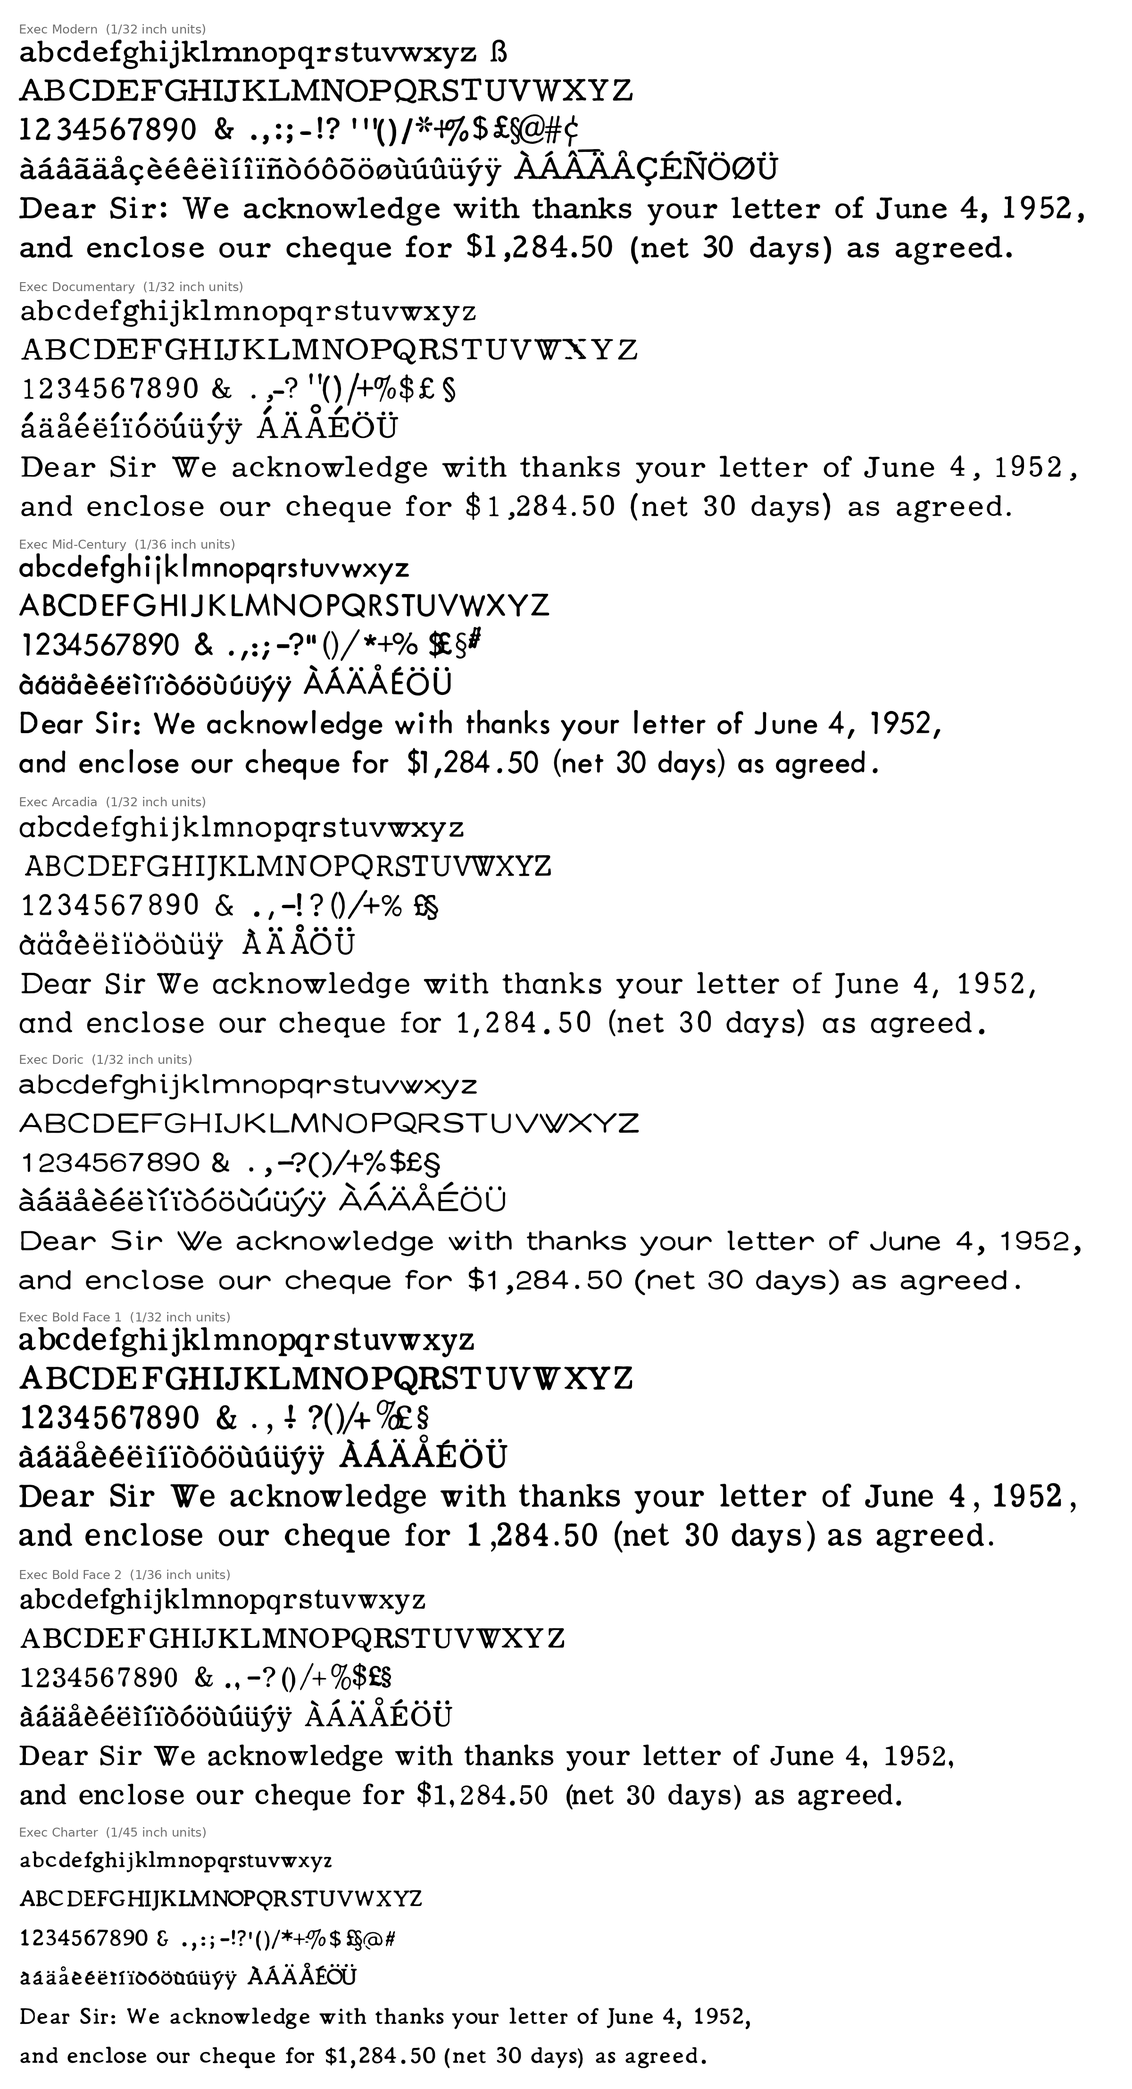
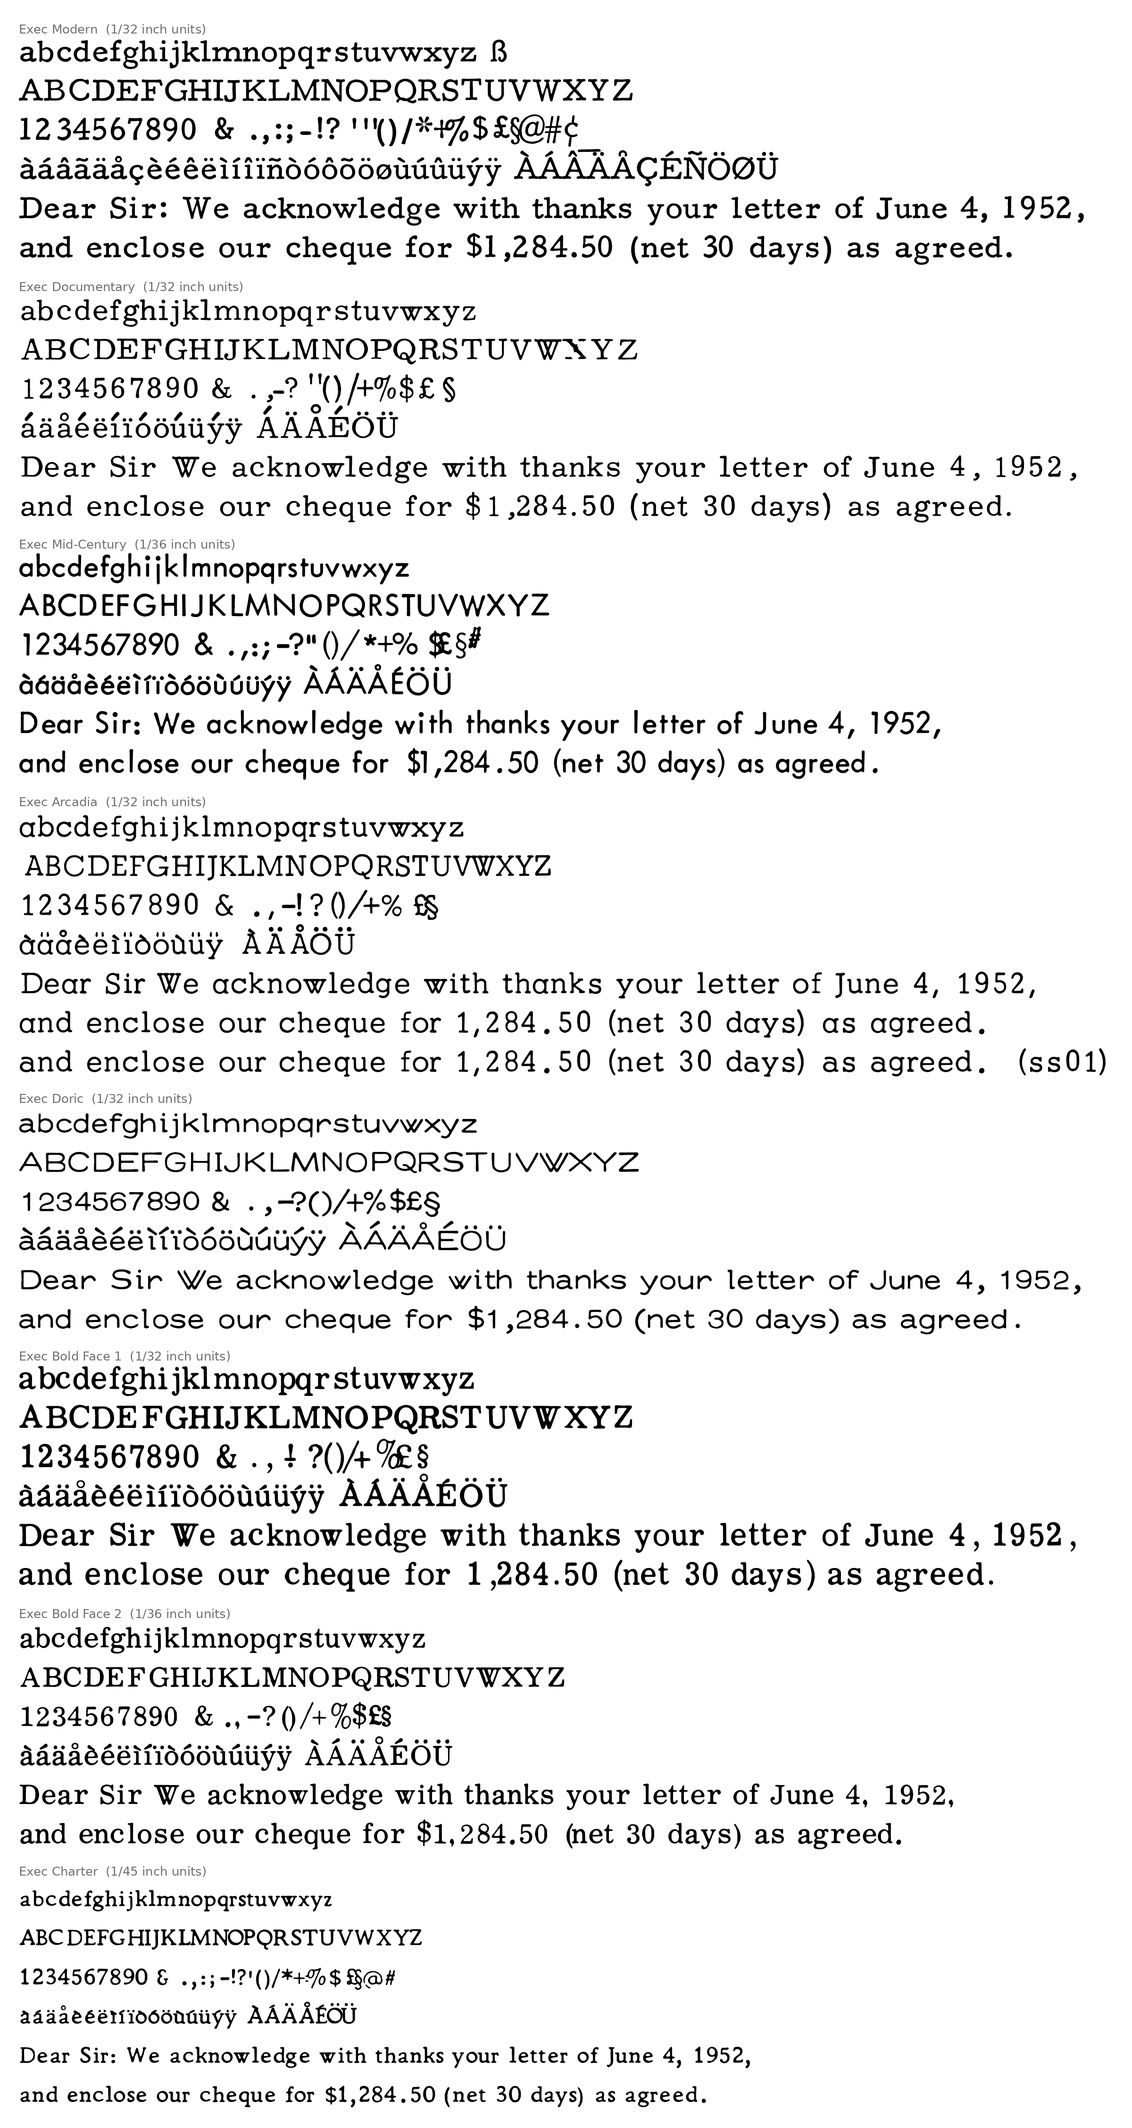
IBM Executive: Arcadia's two-storey a, from IBM's type designs sheet, as ss01
Exec Arcadia 1.001. The a is averaged over the sheet's 13 occurrences, scaled
so the sheet's letters are as tall as the brochure's, and thickened by the
difference of the two sources' stems so it has the brochure's weight. The
accented a's get it too; salt offers it as well.

Claude-Session: https://claude.ai/code/session_01CQ6vQTb8Z7L7dhdmG8pUbp

Changed region(s): [[0.0, 0.0, 0.9375, 0.9661]]

diff --git a/ibm-executive/tools/build.py b/ibm-executive/tools/build.py
@@ -9,7 +9,7 @@ Scale: 200 font units to the 1/32-inch unit, so 6400 units to the inch (1000 to 
 its typewriter size when set at 11.25 pt).  A 1/36-inch face's unit is 6400/36 = 177.8 font units and a
 1/45-inch face's 142.2; each advance is its whole number of units, rounded to the font unit.
 """
-import sys, os, json, pickle, unicodedata, numpy as np
+import sys, os, json, pickle, unicodedata, numpy as np, cv2
 HERE = os.path.dirname(os.path.abspath(__file__))
 sys.path.insert(0, HERE); sys.path.insert(0, os.path.join(HERE, '..', '..', 'common'))
 import trace
@@ -21,12 +21,13 @@ from fontTools.pens.ttGlyphPen import TTGlyphPen
 from fontTools.pens.reverseContourPen import ReverseContourPen
 from fontTools.pens.boundsPen import BoundsPen
 from fontTools.agl import UV2AGL
+from fontTools.feaLib.builder import addOpenTypeFeaturesFromString
 
 ROOT = os.path.join(HERE, '..')
 BUILD = os.path.join(ROOT, 'build')
 # Each font's version, in the head table and the name table.  Raise a font's version with every change to
 # that font, or font managers treat the new file as a duplicate of the installed one (see CONTRIBUTING.md).
-VERSIONS = {'Modern': '1.000', 'Documentary': '1.000', 'MidCentury': '1.000', 'Arcadia': '1.000',
+VERSIONS = {'Modern': '1.000', 'Documentary': '1.000', 'MidCentury': '1.000', 'Arcadia': '1.001',
             'Doric': '1.000', 'BoldFace1': '1.000', 'BoldFace2': '1.000', 'Charter': '1.000'}
 NAMES = {'Modern': 'Modern', 'Documentary': 'Documentary', 'MidCentury': 'Mid-Century', 'Arcadia': 'Arcadia',
          'Doric': 'Doric', 'BoldFace1': 'Bold Face 1', 'BoldFace2': 'Bold Face 2', 'Charter': 'Charter'}
@@ -43,7 +44,11 @@ SOURCES['Charter'] = [('CharterTyped', 'W'), ('Charter', None), ('CharterTyped',
 # card's (its unit fit is too rough to set the scale by), and the typed documents' letters to the brochure's
 # (the brochure's halftone thins the ink, so its letters print a few per cent smaller than typed ones).
 MATCH_HEIGHTS = {'Keyboard': ('Modern', '0123456789'), 'MidCenturyTyped': ('MidCentury', 'EFHILTZxzvnmu'),
-                 'CharterTyped': ('Charter', 'EFHILTZxzvnmu')}
+                 'CharterTyped': ('Charter', 'EFHILTZxzvnmu'), 'ArcadiaSheet': ('Arcadia', 'EFHILTZxzvnmu')}
+# Stylistic alternates: (source, character, feature, name).  IBM's own sheet shows Arcadia with a two-storey a
+# where the Finnish brochure has a one-storey one; the alternate has the a's width and place in its slug, and
+# the accented a's get it too.  Each alternate is also offered by salt.
+ALTERNATES = {'Arcadia': [('ArcadiaSheet', 'a', 'ss01', "Two-storey a (IBM's type designs sheet)")]}
 SPACE_FROM = {'Modern': 'ModernFI'}      # the Jowa text is justified foundry type: its word spaces vary
 UPM = 1000
 PER_INCH = 6400                          # 200 font units to the 1/32 inch
@@ -65,6 +70,7 @@ def decompose(ch):
 
 
 def gname(ch):
+    if len(ch) > 1: base, suffix = ch.split('.', 1); return gname(base) + '.' + suffix    # an alternate
     if ch == 'ı': return 'dotlessi'
     return UV2AGL.get(ord(ch), f'uni{ord(ch):04X}')
 
@@ -72,14 +78,19 @@ def gname(ch):
 class Source:
     def __init__(self, name):
         self.name = name
-        u = json.load(open(os.path.join(BUILD, f'units-{name}.json')))
-        self.esc = u['escapement']; self.p = u['pitch']; self.units = u['units']; self.offset = u['offset']
-        self.unit = PER_INCH / self.esc              # font units per typewriter unit
-        self.k = self.unit / self.p                  # font units per scan pixel
+        path = os.path.join(BUILD, f'units-{name}.json')
+        if os.path.exists(path):
+            u = json.load(open(path))
+            self.esc = u['escapement']; self.p = u['pitch']; self.units = u['units']; self.offset = u['offset']
+            self.unit = PER_INCH / self.esc              # font units per typewriter unit
+            self.k = self.unit / self.p                  # font units per scan pixel
+        else:       # a printed sheet: no units of its own; its scale is set by MATCH_HEIGHTS
+            self.esc = self.p = None; self.units = {}; self.offset = {}
         res = pickle.load(open(os.path.join(BUILD, f'occ-{name}.pkl'), 'rb'))
         self.occ = [o for _, oc in res if oc for o in oc]
         if name in MATCH_HEIGHTS:
             ref, chars = MATCH_HEIGHTS[name]; ref = Source(ref)
+            if self.esc is None: self.esc, self.unit = ref.esc, ref.unit
             h = lambda s, c: np.median([o['bottom'] - o['top'] for o in s.occ if o['ch'] == c])
             have = set(o['ch'] for o in self.occ) & set(o['ch'] for o in ref.occ)
             self.k = float(np.median([h(ref, c) * ref.k / h(self, c) for c in chars if c in have]))
@@ -192,6 +203,29 @@ def standin(G, small, big, ref):
     return dict(img=img, units=units, off=v['off'], src=v['src'], n=v['n'], standin=True)
 
 
+def stems(im, y):
+    """the widths of the strokes the row at height y crosses"""
+    m = im.ink[int(round(im.top - y))] > 0.5
+    edges = np.flatnonzero(np.diff(np.r_[0, m.astype(np.int8), 0]))
+    return list(edges[1::2] - edges[::2])
+
+
+def match_weight(img, src, ref, chars='nmhu'):
+    """img, from src, thickened to ref's weight: by the median difference of the stems of chars at half the
+    x-height, half on each side.  (The type designs sheet is a crisp print; the brochure's halftone spreads the
+    ink, and every other glyph of the face comes from it.)"""
+    diffs = []
+    for c in chars:
+        a, b = average(clean(src.by_char()[c]), src.k), average(clean(ref.by_char()[c]), ref.k)
+        xh = top_of(b); sa, sb = stems(a, xh / 2), stems(b, xh / 2)
+        if len(sa) == len(sb): diffs += [y - x for x, y in zip(sa, sb)]
+    r = int(round(np.median(diffs) / 2))
+    if r <= 0: return img, 0
+    k = cv2.getStructuringElement(cv2.MORPH_ELLIPSE, (2 * r + 1, 2 * r + 1))
+    ink = cv2.dilate(np.pad(img.ink, r), k)
+    return Img(ink, img.x0 - r, img.top + r), 2 * r
+
+
 def build(face):
     G, srcs = glyph_images(face)
     notes = []
@@ -227,6 +261,20 @@ def build(face):
         G['¨'] = dict(img=M[('dieresis', 'lc')][0], units=G['´']['units'] if '´' in G else 2, off=0.0,
                       src=srcs[0], n=0)
     # an accented letter printed but not composable (its accent found on no other letter) stays as printed
+    features = []
+    for src, ch, feat, label in ALTERNATES.get(face, []):
+        s = Source(src); alt = average(clean(s.by_char()[ch]), s.k)
+        alt, thick = match_weight(alt, s, srcs[0])
+        subs = [(ch, f'{ch}.{feat}')]
+        G[f'{ch}.{feat}'] = dict(G[ch], img=alt, n=len(s.by_char()[ch]))
+        for acc in composed:        # its accented forms, with the same accents in the same places
+            base, kind = decompose(acc)
+            if base != ch: continue
+            m, dx = M[(kind, 'uc' if base.isupper() else 'lc')]
+            G[f'{acc}.{feat}'] = dict(G[acc], img=alt.union(m.shift(alt.cx() + dx, 0)))
+            subs.append((acc, f'{acc}.{feat}'))
+        features.append((feat, label, [(gname(a), gname(b)) for a, b in subs]))
+        notes.append(f'{feat}: {len(subs)} alternates from {src}, strokes {thick} units heavier')
 
     # outlines: each glyph's ink centre at the centre of its slug, moved by the fitted offset
     glyphs, adv = {}, {}
@@ -245,13 +293,14 @@ def build(face):
     glyphs['.notdef'] = [[('L', (60, 0), (60, 640)), ('L', (60, 640), (340, 640)), ('L', (340, 640), (340, 0)),
                           ('L', (340, 0), (60, 0))]]
     adv['.notdef'] = 400
-    cmap = {ord(ch): gname(ch) for ch in G}
+    cmap = {ord(ch): gname(ch) for ch in G if len(ch) == 1}
     cmap[0x20] = 'space'
     for u, ch in ALIAS.items():
         if ch == ' ' or ch in G: cmap[u] = 'space' if ch == ' ' else gname(ch)
     print(f'{face}: {len(G)} characters ({len(composed)} composed), space {su} units from {n} gaps;'
           f' {"; ".join(notes)}')
-    return glyphs, adv, cmap, dict(xh=xh, cap=cap, esc=srcs[0].esc, space=su, composed=''.join(composed))
+    return glyphs, adv, cmap, dict(xh=xh, cap=cap, esc=srcs[0].esc, space=su, composed=''.join(composed),
+                                   features=features)
 
 
 def font(face, otf=True, data=None):
@@ -302,6 +351,13 @@ def font(face, otf=True, data=None):
                 fsSelection=0x40 | 0x80, version=4)   # regular, use the typo metrics (OS/2 version 4)
     fb.setupPost()
     fb.font['head'].fontRevision = float(VERSION)
+    if info.get('features'):
+        fea = 'languagesystem DFLT dflt;\nlanguagesystem latn dflt;\n'
+        for feat, label, subs in info['features']:
+            fea += (f'feature {feat} {{ featureNames {{ name "{label}"; }}; '
+                    + ' '.join(f'sub {a} by {b};' for a, b in subs) + f' }} {feat};\n')
+        fea += 'feature salt { ' + ' '.join(f'sub {a} by {b};' for _, _, subs in info['features'] for a, b in subs) + ' } salt;\n'
+        addOpenTypeFeaturesFromString(fb.font, fea)
     d = os.path.join(ROOT, 'fonts', 'otf' if otf else 'ttf')
     os.makedirs(d, exist_ok=True)
     p = os.path.join(d, f'{psname}.{"otf" if otf else "ttf"}')

diff --git a/ibm-executive/tools/read.py b/ibm-executive/tools/read.py
@@ -394,17 +394,18 @@ def read_keyboard():
     ln = Line(scan, box, 30)
     return [(text, match(ln, text, S.KEYBOARD_MULTI, S.KEYBOARD_SPLIT))], [ln]
 
-def read_typed(face):
-    """a face's typed documents (sources.TYPED): single lines, and blocks of lines"""
+def read_typed(entries):
+    """documents typed in a face (sources.TYPED), or a printed sheet (sources.SHEETS): single lines, table
+    rows, and blocks of lines"""
     lines, items, rows = [], [], []
-    for scan, box, text, *kind in S.TYPED[face]:
+    for scan, box, text, *kind in entries:
         if isinstance(text, str):
             # (a table's cells are clean: a small minimum keeps the dots of ; and !)
             rows.append(bool(kind)); lines.append(Line(scan, box, 4 if kind else 15)); items.append(text)
         else:
             ls = block_lines(scan, box, 15)
             if len(ls) != len(text):
-                raise SystemExit(f'{face}: {len(ls)} lines in {box}, expected {len(text)}')
+                raise SystemExit(f'{scan}: {len(ls)} lines in {box}, expected {len(text)}')
             lines += ls; items += text; rows += [False] * len(ls)
     model = None
     for _ in range(3):
@@ -420,15 +421,17 @@ def read_typed(face):
                 for o in oc: o['base'] = base
     return res, lines
 
-TYPED = [f + 'Typed' for f in S.TYPED]
+TYPED = [f + 'Typed' for f in S.TYPED] + list(S.SHEETS)
 FACES = ['Modern', 'ModernFI', 'Keyboard', 'Documentary', 'MidCentury', 'Arcadia', 'Doric', 'BoldFace1', 'BoldFace2', 'Charter']
 
 def read(face):
     """occurrences of every character of a face, and the brochure's Modern for the unit calibration"""
     if face == 'Modern':
         return read_jowa()
+    if face in S.SHEETS:      # a printed sheet, for an alternate
+        return read_typed(S.SHEETS[face])
     if face in TYPED:         # documents typed in the face, for the characters the brochure lacks
-        return read_typed(face[:-len('Typed')])
+        return read_typed(S.TYPED[face[:-len('Typed')]])
     if face == 'Keyboard':    # Modern's @ # ¢ _, from the typed keyboard sheet
         return read_keyboard()
     if face == 'ModernFI':    # the brochure's Modern: for the unit calibration and the characters Jowa lacks

diff --git a/ibm-executive/tools/specimen.py b/ibm-executive/tools/specimen.py
@@ -11,7 +11,7 @@ from fontTools.ttLib import TTFont
 HERE = os.path.dirname(os.path.abspath(__file__))
 sys.path.insert(0, HERE); sys.path.insert(0, os.path.join(HERE, '..', '..', 'common'))
 import read as R
-from build import VERSIONS, NAMES, PER_INCH
+from build import VERSIONS, NAMES, PER_INCH, ALTERNATES
 ROOT = os.path.join(HERE, '..')
 OUT = os.path.join(ROOT, 'specimen')
 LABEL = '/usr/share/fonts/truetype/dejavu/DejaVuSans.ttf'
@@ -34,13 +34,16 @@ def lines():
         cmap = TTFont(fontpath(face)).getBestCmap()
         for t in SETS + TEXT:     # leave out what the face doesn't have
             rows.append(('text', ''.join(c for c in t if c == ' ' or ord(c) in cmap), f))
+        for _, ch, feat, label in ALTERNATES.get(face, []):    # and its alternates
+            t = ''.join(c for c in TEXT[1] if c == ' ' or ord(c) in cmap)
+            rows.append(('text', f'{t}  ({feat})', f, [feat]))
     H = sum(48 if r[0] == 'label' else int(size * 1.3) for r in rows) + 60
     im = Image.new('L', (W, H), 255); d = ImageDraw.Draw(im); y = 30
     for r in rows:
         if r[0] == 'label':
             y += 16; d.text((40, y), r[1], font=r[2], fill=110); y += 32
         else:
-            d.text((40, y), r[1], font=r[2], fill=0); y += int(size * 1.3)
+            d.text((40, y), r[1], font=r[2], fill=0, features=r[3] if len(r) > 3 else None); y += int(size * 1.3)
     im.save(os.path.join(OUT, 'specimen-lines.png'))
 
 # which lines of each source to show: (source, line ids, display scale)

diff --git a/ibm-executive/tools/sources.py b/ibm-executive/tools/sources.py
@@ -201,3 +201,13 @@ TYPED['Charter'] = [_row(k, t) for k, t in CH_CALIBRATION] + [_row(k, t) for k, 
     (CH_LABELS, (750, 1998, 1242, 2042), 'Standard BCD Interchange Code'),
     (CH_LABELS, (562, 2789, 1170, 2833), 'Figure 5. Code Summary Comparison'),
 ]
+
+# ----------------------------------------------------------------------------------- printed sheets (alternates)
+# IBM's "Type designs for the IBM 'Executive' Typewriter", sheet 1: Arcadia with a two-storey a, where the
+# Finnish brochure's Arcadia has a one-storey one.  Printed, not typed; read for that a alone.
+SHEETS = {
+    'ArcadiaSheet': [('type-designs-ibm-executive-0001.jp2', (2450, 2480, 8400, 3140),
+                      ['This is a sample of IBM Arcadia Type. Designed for all-',
+                       'purpose use, its distinctive appearance enhances finished',
+                       'copy in a variety of applications.'])],
+}

diff --git a/ibm-executive/tools/units.py b/ibm-executive/tools/units.py
@@ -184,4 +184,4 @@ if __name__ == '__main__':
         elif face in R.TYPED: pass
         elif face not in ('Modern', 'ModernFI'): run(face, std, p32)
     for face in faces:              # after the faces' own tables
-        if face in R.TYPED: run_typed(face[:-len('Typed')])
+        if face in R.TYPED and face.endswith('Typed'): run_typed(face[:-len('Typed')])

diff --git a/ibm-executive/README.md b/ibm-executive/README.md
@@ -19,7 +19,8 @@ keep those widths exactly, so text set in them falls where the machine would hav
 | Exec Charter | Charter | 1/45 inch | Finnish brochure; BCD code table of 1962 | `ExecCharter-Regular` |
 
 Each font is in `fonts/otf/` (cubic outlines, unhinted) and `fonts/ttf/` (quadratic, hinted with
-[ttfautohint](https://freetype.org/ttfautohint/) at 8–50 px), version 1.000. The sources are listed in
+[ttfautohint](https://freetype.org/ttfautohint/) at 8–50 px). The fonts are at version 1.000, except Exec
+Arcadia at 1.001 (its two-storey a). The sources are listed in
 [`scans/README.md`](scans/README.md).
 
 ## Size and spacing
@@ -54,6 +55,10 @@ gives every character an offset from the centre of its slug, as well as its widt
   brochure faces compose ä å ö ü, á à é è ë í ì ï ó ò ú ù ý ÿ, Å Ä Ö Ü and Á À É È Ó Ò Ú Ù Ý where the face shows
   the acute and grave. A capital's accent missing from a scan is the lower-case one, raised by the difference
   between the cap height and the x-height. ç Ç ø Ø ß are traced as printed. ¨ ´ ` are also spacing glyphs.
+- **Exec Arcadia's `ss01`** (also in `salt`) gives the two-storey a of IBM's own "Type designs" sheet, with
+  à ä å, in place of the brochure's one-storey a. The sheet is a crisp print: its a is averaged over its 13
+  occurrences, scaled so the sheet's letters are as tall as the brochure's, and thickened by the difference
+  between the two sources' n m h u stems (16 units), so that it has the brochure's weight.
 - `)` is the `(` turned round in Modern, whose card has only the `(`. The typographic quotes ‘ ’ “ ” map to the
   typewriter's straight `'` and `"`.
 
@@ -101,8 +106,9 @@ rough to measure them, so it is used only for their shapes, scaled so its figure
   (`type-designs-ibm-executive-0001.jp2`) shows Arcadia with a two-storey a, and every other letter the two
   share matches: the slab-serifed I B M, E C T V, k o n e s i and the straight-tailed y. So the brochure shows
   Arcadia with an alternate a. These sources don't say why (an option for some market, a later revision, or
-  a change for that brochure). Exec Arcadia follows the brochure. The sheet is printed, not typed ("not
-  representative of typewritten material", its note says), but it could give the two-storey a as an alternate.
+  a change for that brochure). Exec Arcadia follows the brochure, and has the sheet's a as a stylistic
+  alternate (`ss01`), although the sheet is printed, not typed ("not representative of typewritten
+  material", its note says).
 - Arcadia has no real w or W. A memo by R. W. Bemer (7 November 1961), offered for it, is in IBM's
   **Secretarial**. It has the same wide monoline slab serif as the sheet's Secretarial sample: the
   ball-terminal r and c, the two-storey a with a curved tail, the curve-tailed y, the open one-storey g and

diff --git a/ibm-executive/scans/README.md b/ibm-executive/scans/README.md
@@ -9,7 +9,7 @@ directory under these names.
 | `53152131364_bf2060fa84_o.jpg` | The same card, back: text set in it. [Flickr 53152131364](https://www.flickr.com/photos/letterformarchive/53152131364/) | Modern: unit widths |
 | `ibm-executive-typefaces-finnish.jp2` | "IBM Executive -kirjoituskoneen kirjasinnäytteet", Finnish brochure of eight faces | Documentary, Mid-Century, Arcadia, Doric, Bold Face 1, Bold Face 2, Charter: glyphs and unit widths; Modern: unit calibration, `` ` ´ § `` |
 | `sciencemuseum-602-36.jpg` … `-39.jpg` | Science Museum Group, [specimen sheet for typewriter IBM Executive series number 602](https://collection.sciencemuseumgroup.org.uk/documents/aa110126681/specimen-sheet-for-typewriter-ibm-executive-series-number-602) (four detail tiles) | Modern: identifying 602, and its `@ § † [ = —` (512-px tiles, too small to trace) |
-| `type-designs-ibm-executive-0001.jp2`, `-0002.jp2` | "Type designs for the IBM 'Executive' Typewriter", two sheets of printed samples of seventeen faces | Identifying the faces |
+| `type-designs-ibm-executive-0001.jp2`, `-0002.jp2` | "Type designs for the IBM 'Executive' Typewriter", two sheets of printed samples of seventeen faces | Identifying the faces; Arcadia: the two-storey a (`ss01`) |
 | `typed-keyboard-pairs.jpg` | Keyboard sheet typed on a 1950s Executive, identified as Modern [on r/typewriters](https://www.reddit.com/r/typewriters/comments/199axah/1950s_ibm_executive_middle_keyboard_lowercase/) | Modern: `@ # ¢ _` (shapes; scaled to the Jowa figures) |
 | `typed-bold-face-1-units.jpg` | Sample typed on an Executive in Bold Face #1, listing the characters of each width in 1/32-inch units | Modern: the widths of `# ¢ _` (3 units); a check of the fitted tables |
 | `midcentury-asa-letter-0027.jpg` | Letter of the American Standards Association, 28 May 1962 (ISO/TC97/WGB document USA-4), typed in Mid-Century; 300 dpi | Mid-Century: `w W : ; " # *`; the 1/36-inch unit checked (8.42 px against 8.33 at 300 dpi) |
